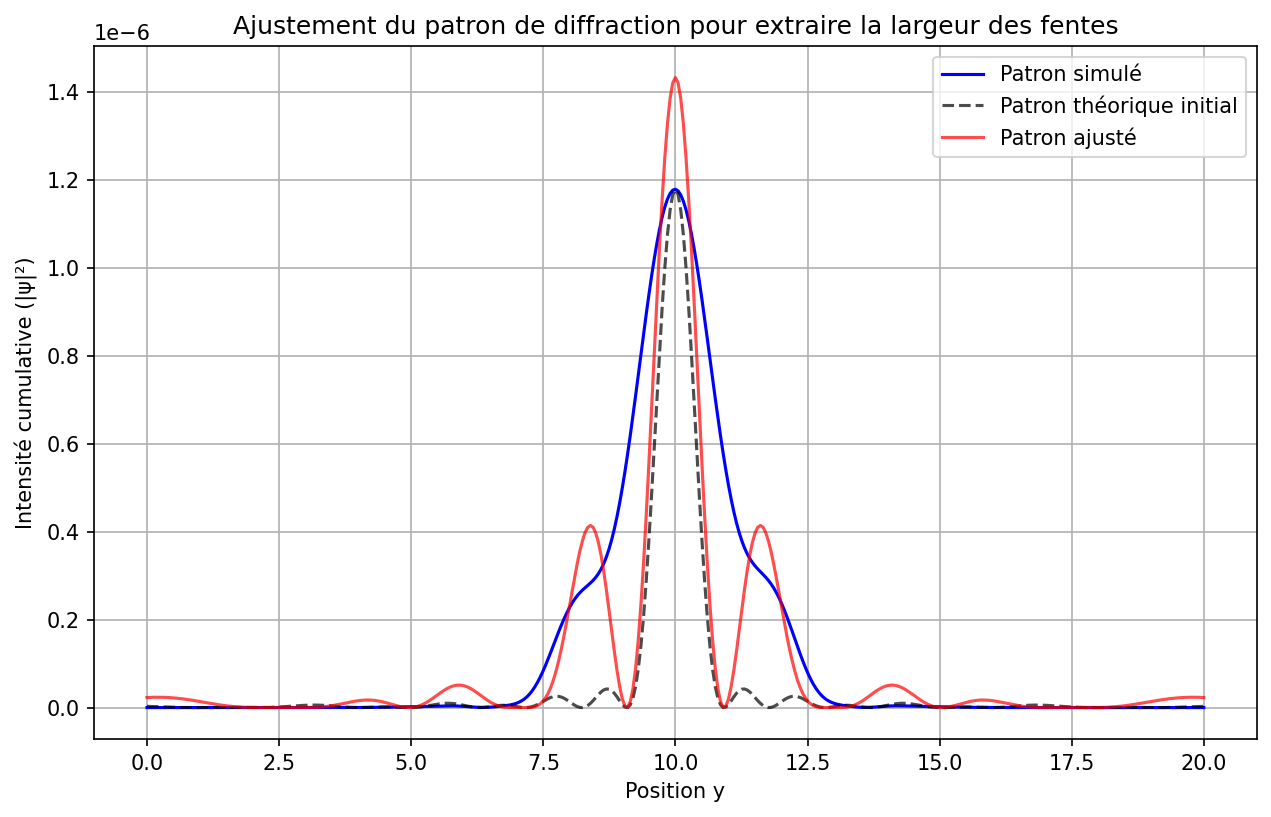
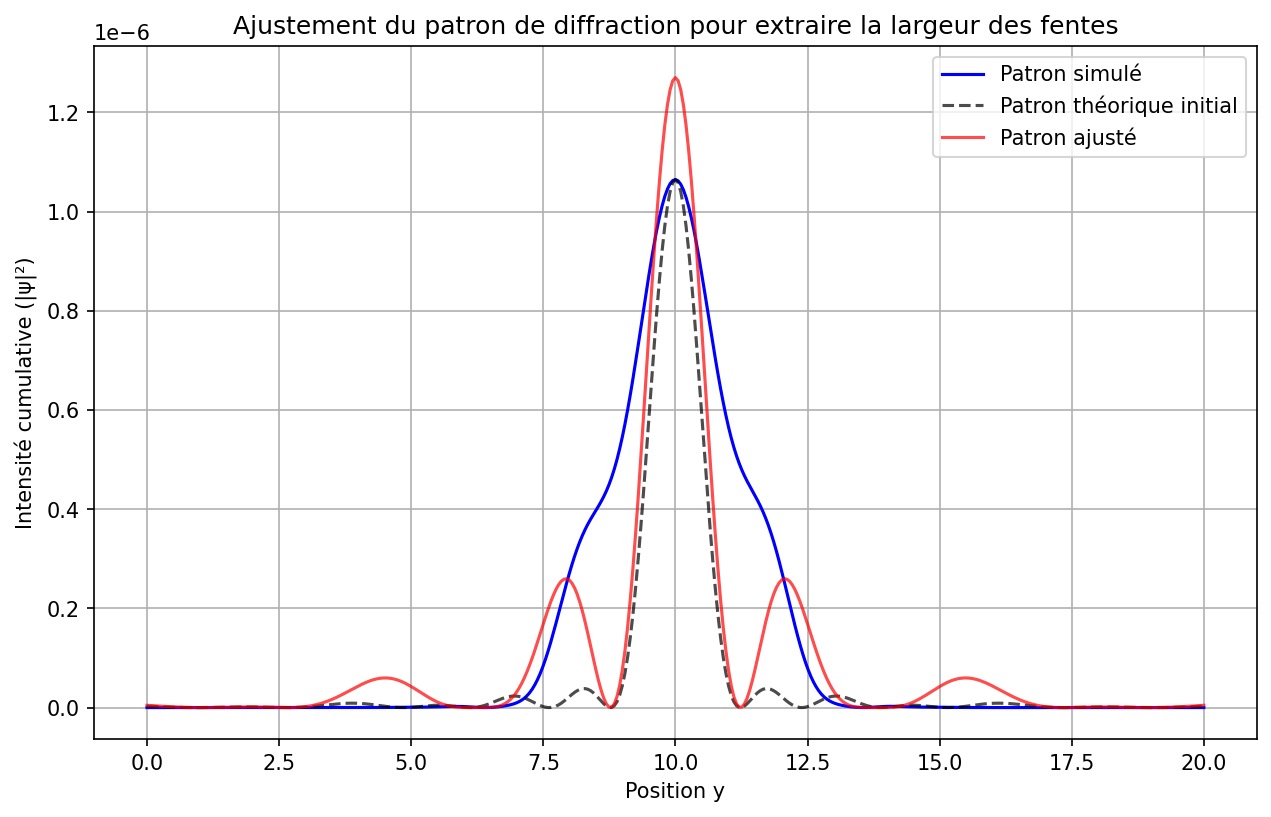
k ajusté

diff --git a/Codes/runFPB.py b/Codes/runFPB.py
@@ -9,7 +9,7 @@ convergence_calculated = False
 
 if __name__ == "__main__":
 
-    fact_ar = np.array([0.03, 0.04, 0.05], dtype=np.double); # np.array([0.0100, 0.02, 0.03, 0.04, 0.05], dtype=np.double); 
+    fact_ar = np.array([0.05], dtype=np.double); # np.array([0.0100, 0.02, 0.03, 0.04, 0.05], dtype=np.double); 
     mem_ar=np.zeros(fact_ar.size,dtype=np.double)
     d_ar=np.zeros(fact_ar.size,dtype=np.double)
 
@@ -22,13 +22,13 @@ if __name__ == "__main__":
         L = 20 # Grandeur de la simulation (de la boîte).
         Dy = fact # Pas d'espace.
         Dt = (Dy**2) # Pas de temps.
-        T = 1 # Temps total de simulation.
+        T = 0.5 # Temps total de simulation.
         Nx = int(L/Dy) + 1 # Grandeur du grillage en x.
         Ny = int(L/Dy) + 1 # Grandeur du grillage en y.
         print(f"Taille matrice : {Nx*Ny} éléments")
         Nt = int(T / Dt) # Nombre de points de temps.
         print(f"Nombre de points de temps : {Nt}")
-        v = np.zeros((Ny,Ny), complex)  # Première définition du potentiel.
+        v = np.zeros((Ny,Ny), complex) 
 
         ### Nt * Dt = t = L/v_g = L * m / h_bar * k sous le modèle des électrons quasi-libres v_g = h_bar * k /m ###
 
@@ -51,13 +51,10 @@ if __name__ == "__main__":
 
         j0, j1, i0, i1, i2, i3, v, x_fentes = potentielSlits(Dy, Ny, L, y0, s, w, v0, a)
  
-        k =  4 * np.pi / a  # a/lambda = 2, lambda = a/2, k = 2pi/lambda = 4pi/a ; 15 * np.pi 
+        k =  3 * np.pi / a  # k = 2pi/lambda ; 15 * np.pi 
 
         v_g = h_bar * k / m
 
-        # v_abs = potentiel_absorbant(x, y, L, v, d_abs=2, strength=100) # Fucking instable
-        # v += v_abs
-        
         mat_t = time()
         A, M = buildMatrix(Ni, Nx, Ny, Dy, Dt, v)
         mem = 8 * M.nnz + 8 * A.nnz
@@ -78,10 +75,10 @@ if __name__ == "__main__":
         M_csr = M.tocsr()
         mem_ar[ci] = 8 * M_csr.nnz
 
-    if not convergence_calculated:
-        dy_list = [0.02, 0.04, 0.08]  
-        errors_l2, orders_l2 = convergence_erreur(L, T, x0, y0, k, dy_list, a, s, sigma, w, v0)
-        convergence_calculated = True
+    # if not convergence_calculated:       # Décommenter pour calculer l'erreur de convergence
+    #     dy_list = [0.02, 0.04, 0.08]  
+    #     errors_l2, orders_l2 = convergence_erreur(L, T, x0, y0, k, dy_list, a, s, sigma, w, v0)
+    #     convergence_calculated = True
 
     plt.figure(figsize=(8, 6))  
     plt.loglog(d_ar[::-1], mem_ar[::-1]/1024.0**3, '-o')

diff --git a/Codes/createAnimations.py b/Codes/createAnimations.py
@@ -221,10 +221,8 @@ def fit(y_screen, cumulative_intensity, s, a_initial, k, D, L):
     theo_intensity_initial = theo_intensity_initial * max_sim
     theo_intensity_fit = theo_intensity_fit * max_sim
 
-    # Afficher les résultats
     print(f"Largeur des fentes ajustée (a) : {a_fit:.4f} ± {a_err:.4f}")
 
-    # Tracé
     plt.figure(figsize=(10, 6))
     plt.plot(y_screen, cumulative_intensity, label='Patron simulé', color='blue')
     plt.plot(y_screen, theo_intensity_initial, 'k--', label='Patron théorique initial', alpha=0.7)
@@ -299,7 +297,6 @@ def diffractionPatron(mod_psis, L, Ny, s, a, k, D, n0=0, extract_frac=0.75, x0=N
     # Calculer les temps correspondants
     times = np.arange(n0, n_stop) * Dt
 
-    # Tracer l'évolution de l'intensité
     plt.figure(figsize=(10, 6))
     plt.plot(times, intensities, label='Intensité à x_extract')
     plt.axhline(y=threshold, color='r', linestyle='--', label=f'Seuil = {threshold:.2e}')
@@ -319,15 +316,14 @@ def diffractionPatron(mod_psis, L, Ny, s, a, k, D, n0=0, extract_frac=0.75, x0=N
     plt.savefig(output_file, dpi=150, bbox_inches='tight')
     plt.show()
 
-    # Ajouter un message pour guider l'ajustement du seuil
     if n_stop == len(mod_psis):
         print("Avertissement : n_stop a atteint la fin de la simulation. Le seuil est probablement trop élevé.")
     elif n_stop - n0 < 10:
         print("Avertissement : n_stop est très proche de n0. Le seuil est probablement trop bas.")
     else:
-        print(f"Seuil semble correct : n_stop détecté à t = {(n_stop - n0) * Dt + n0 * Dt:.4f} s")
+        print(f"n_stop détecté à t = {(n_stop - n0) * Dt + n0 * Dt:.4f} s")
     
-    # Calculer la vitesse expérimentale si x0, Dt et v_g sont fournis
+    # Calculer la vitesse expérimentale 
     if x0 is not None and Dt is not None and v_g is not None:
         if n_stop > n0:
             time_to_extract = (n_stop - n0) * Dt  # Temps écoulé depuis n0
@@ -386,7 +382,6 @@ def diffractionPatron(mod_psis, L, Ny, s, a, k, D, n0=0, extract_frac=0.75, x0=N
         a_calculated = None
         print("Impossible de détecter les minimas.")
 
-    # --- Tracé du patron avec les minimas ---
     plt.figure(figsize=(10, 6))
     plt.plot(y_screen, cumulative_intensity, label='Patron simulé')
     plt.plot(y_screen, theo_intensity_norm, 'k--', label='Patron théorique')

diff --git a/Codes/doubleSlit_FPB_CN.py b/Codes/doubleSlit_FPB_CN.py
@@ -227,7 +227,7 @@ def convergence_erreur(L, T, x0, y0, k, dy_list, a, s, sigma, w, v0):
     plt.title('Convergence numérique (norme euclidienne)')
     plt.grid(True, which="both", ls="--")
     plt.legend()
-    # Ajout des annotations pour l'ordre
+    
     for i in range(len(orders_l2)):
         plt.text(dy_list[i+1], errors_l2[i], f'Ordre={orders_l2[i]:.2f}', fontsize=10, ha='right')
     output_dir = "figures"
